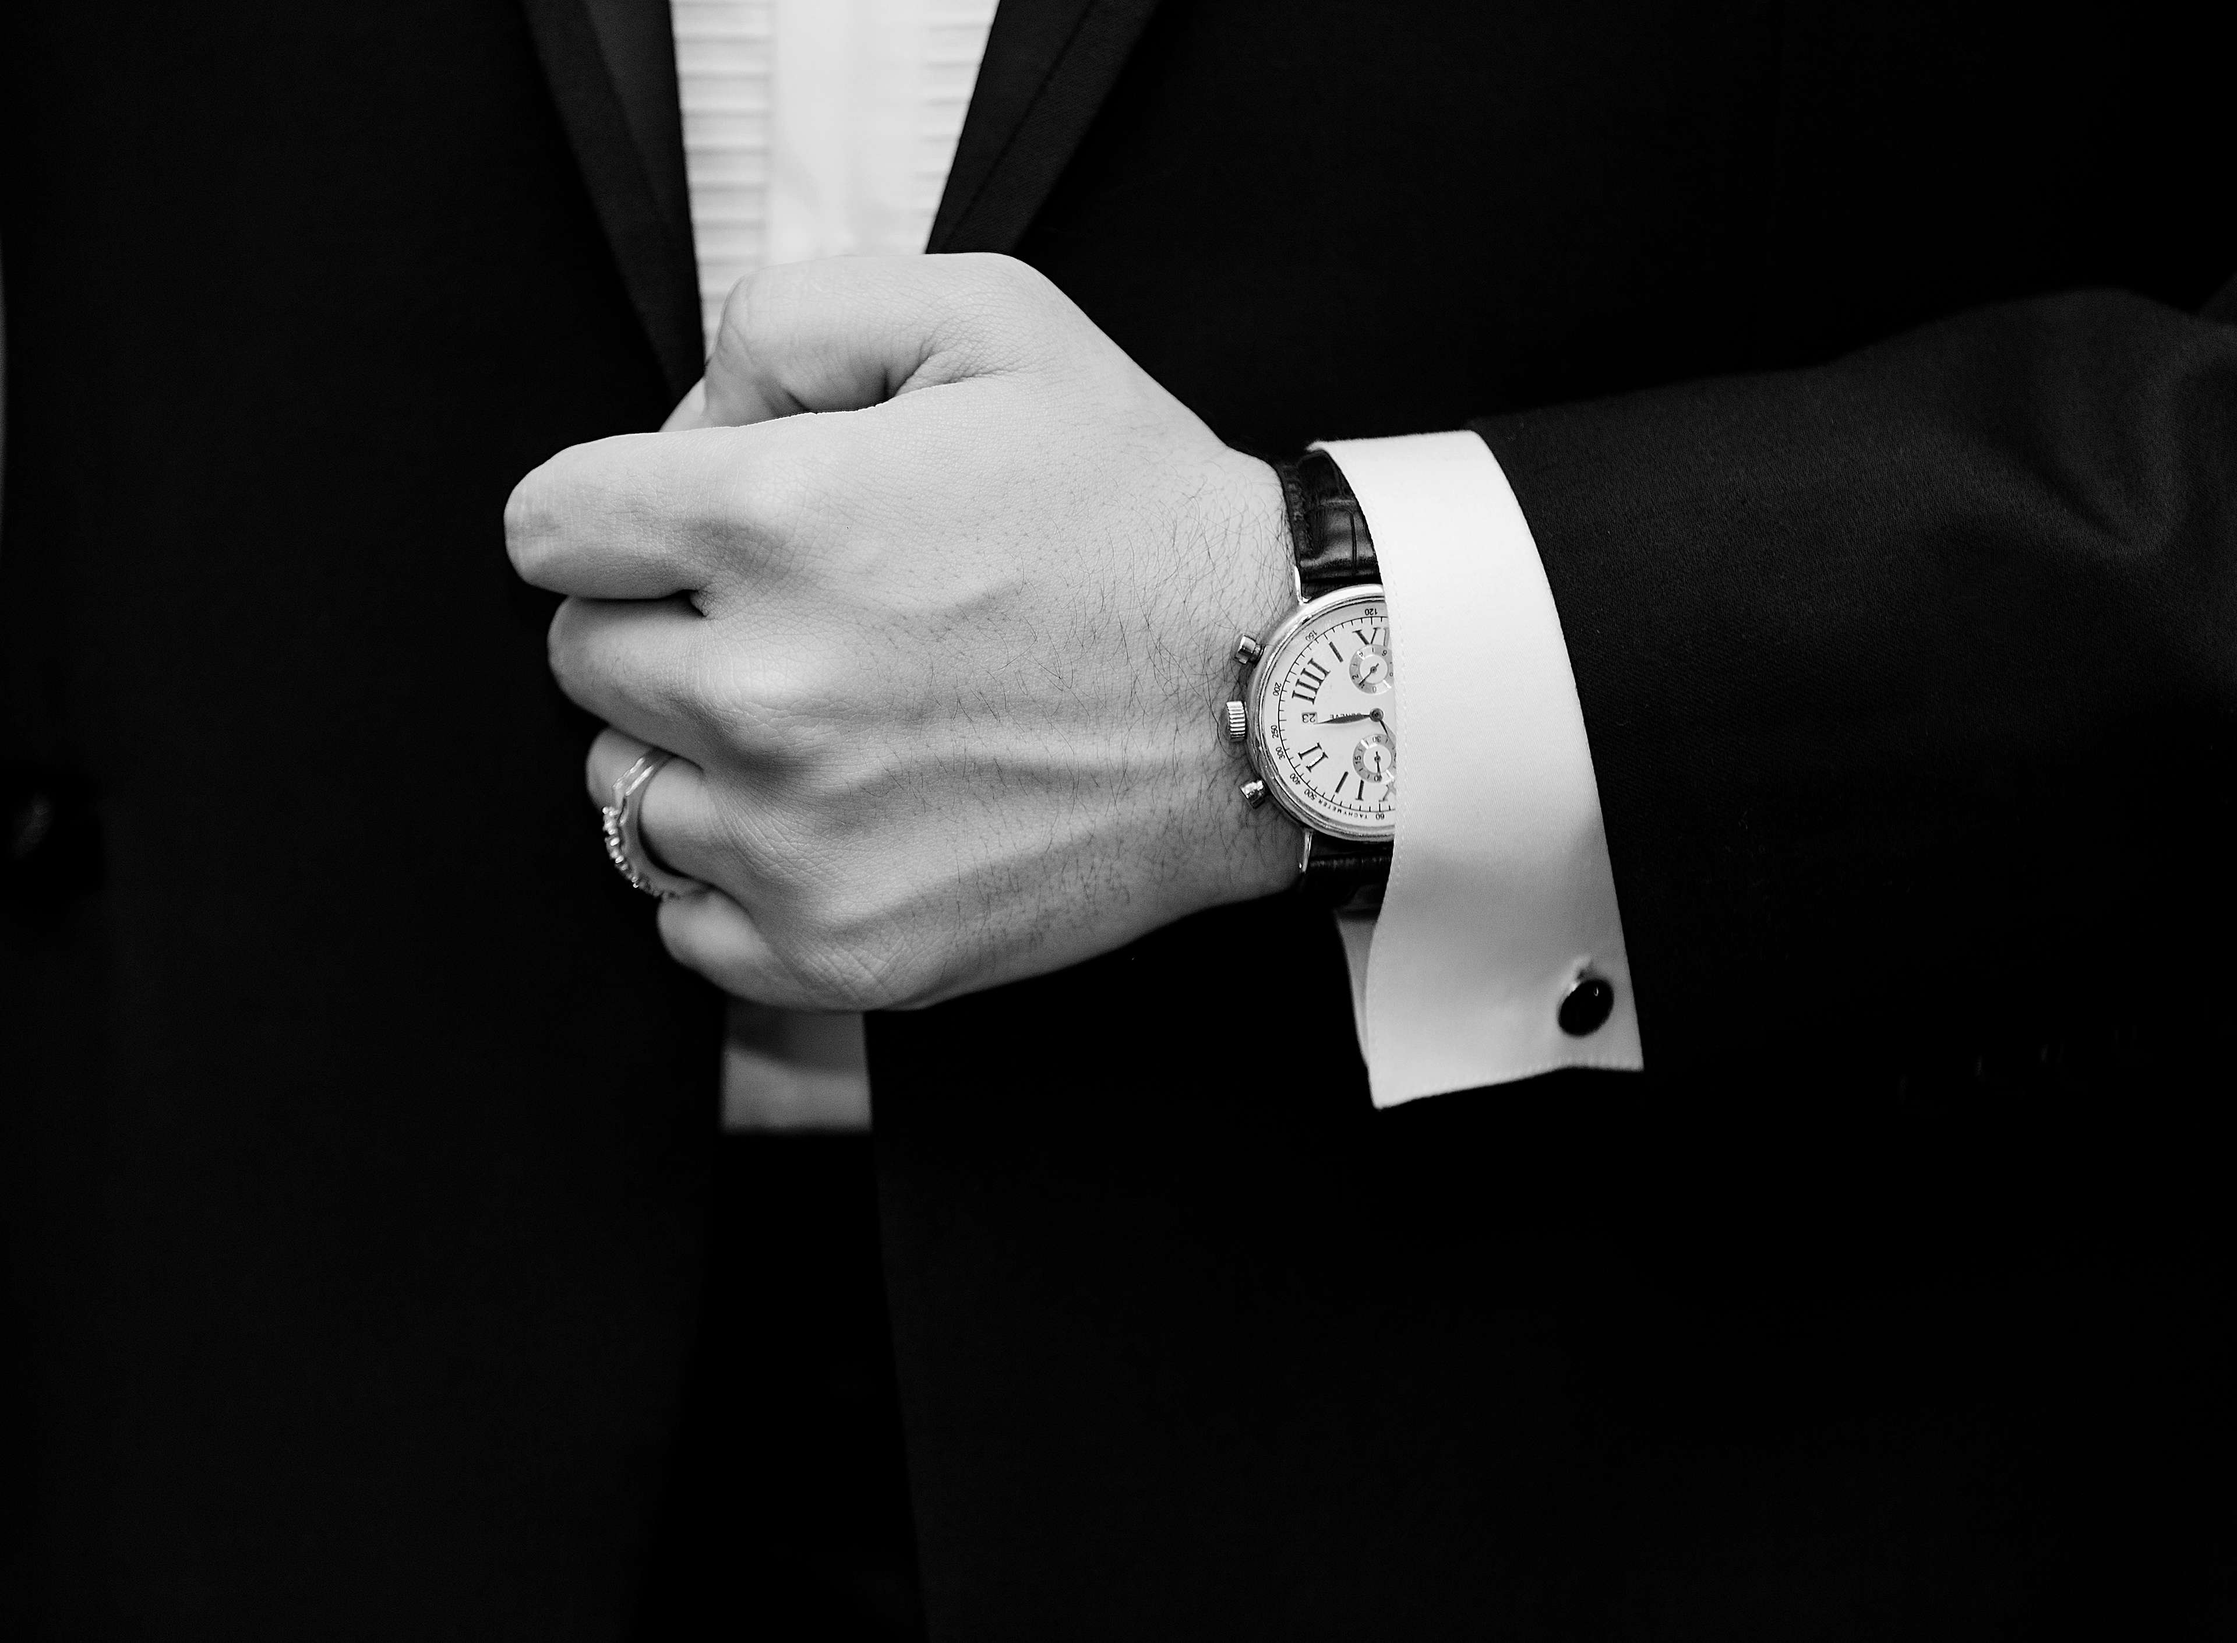
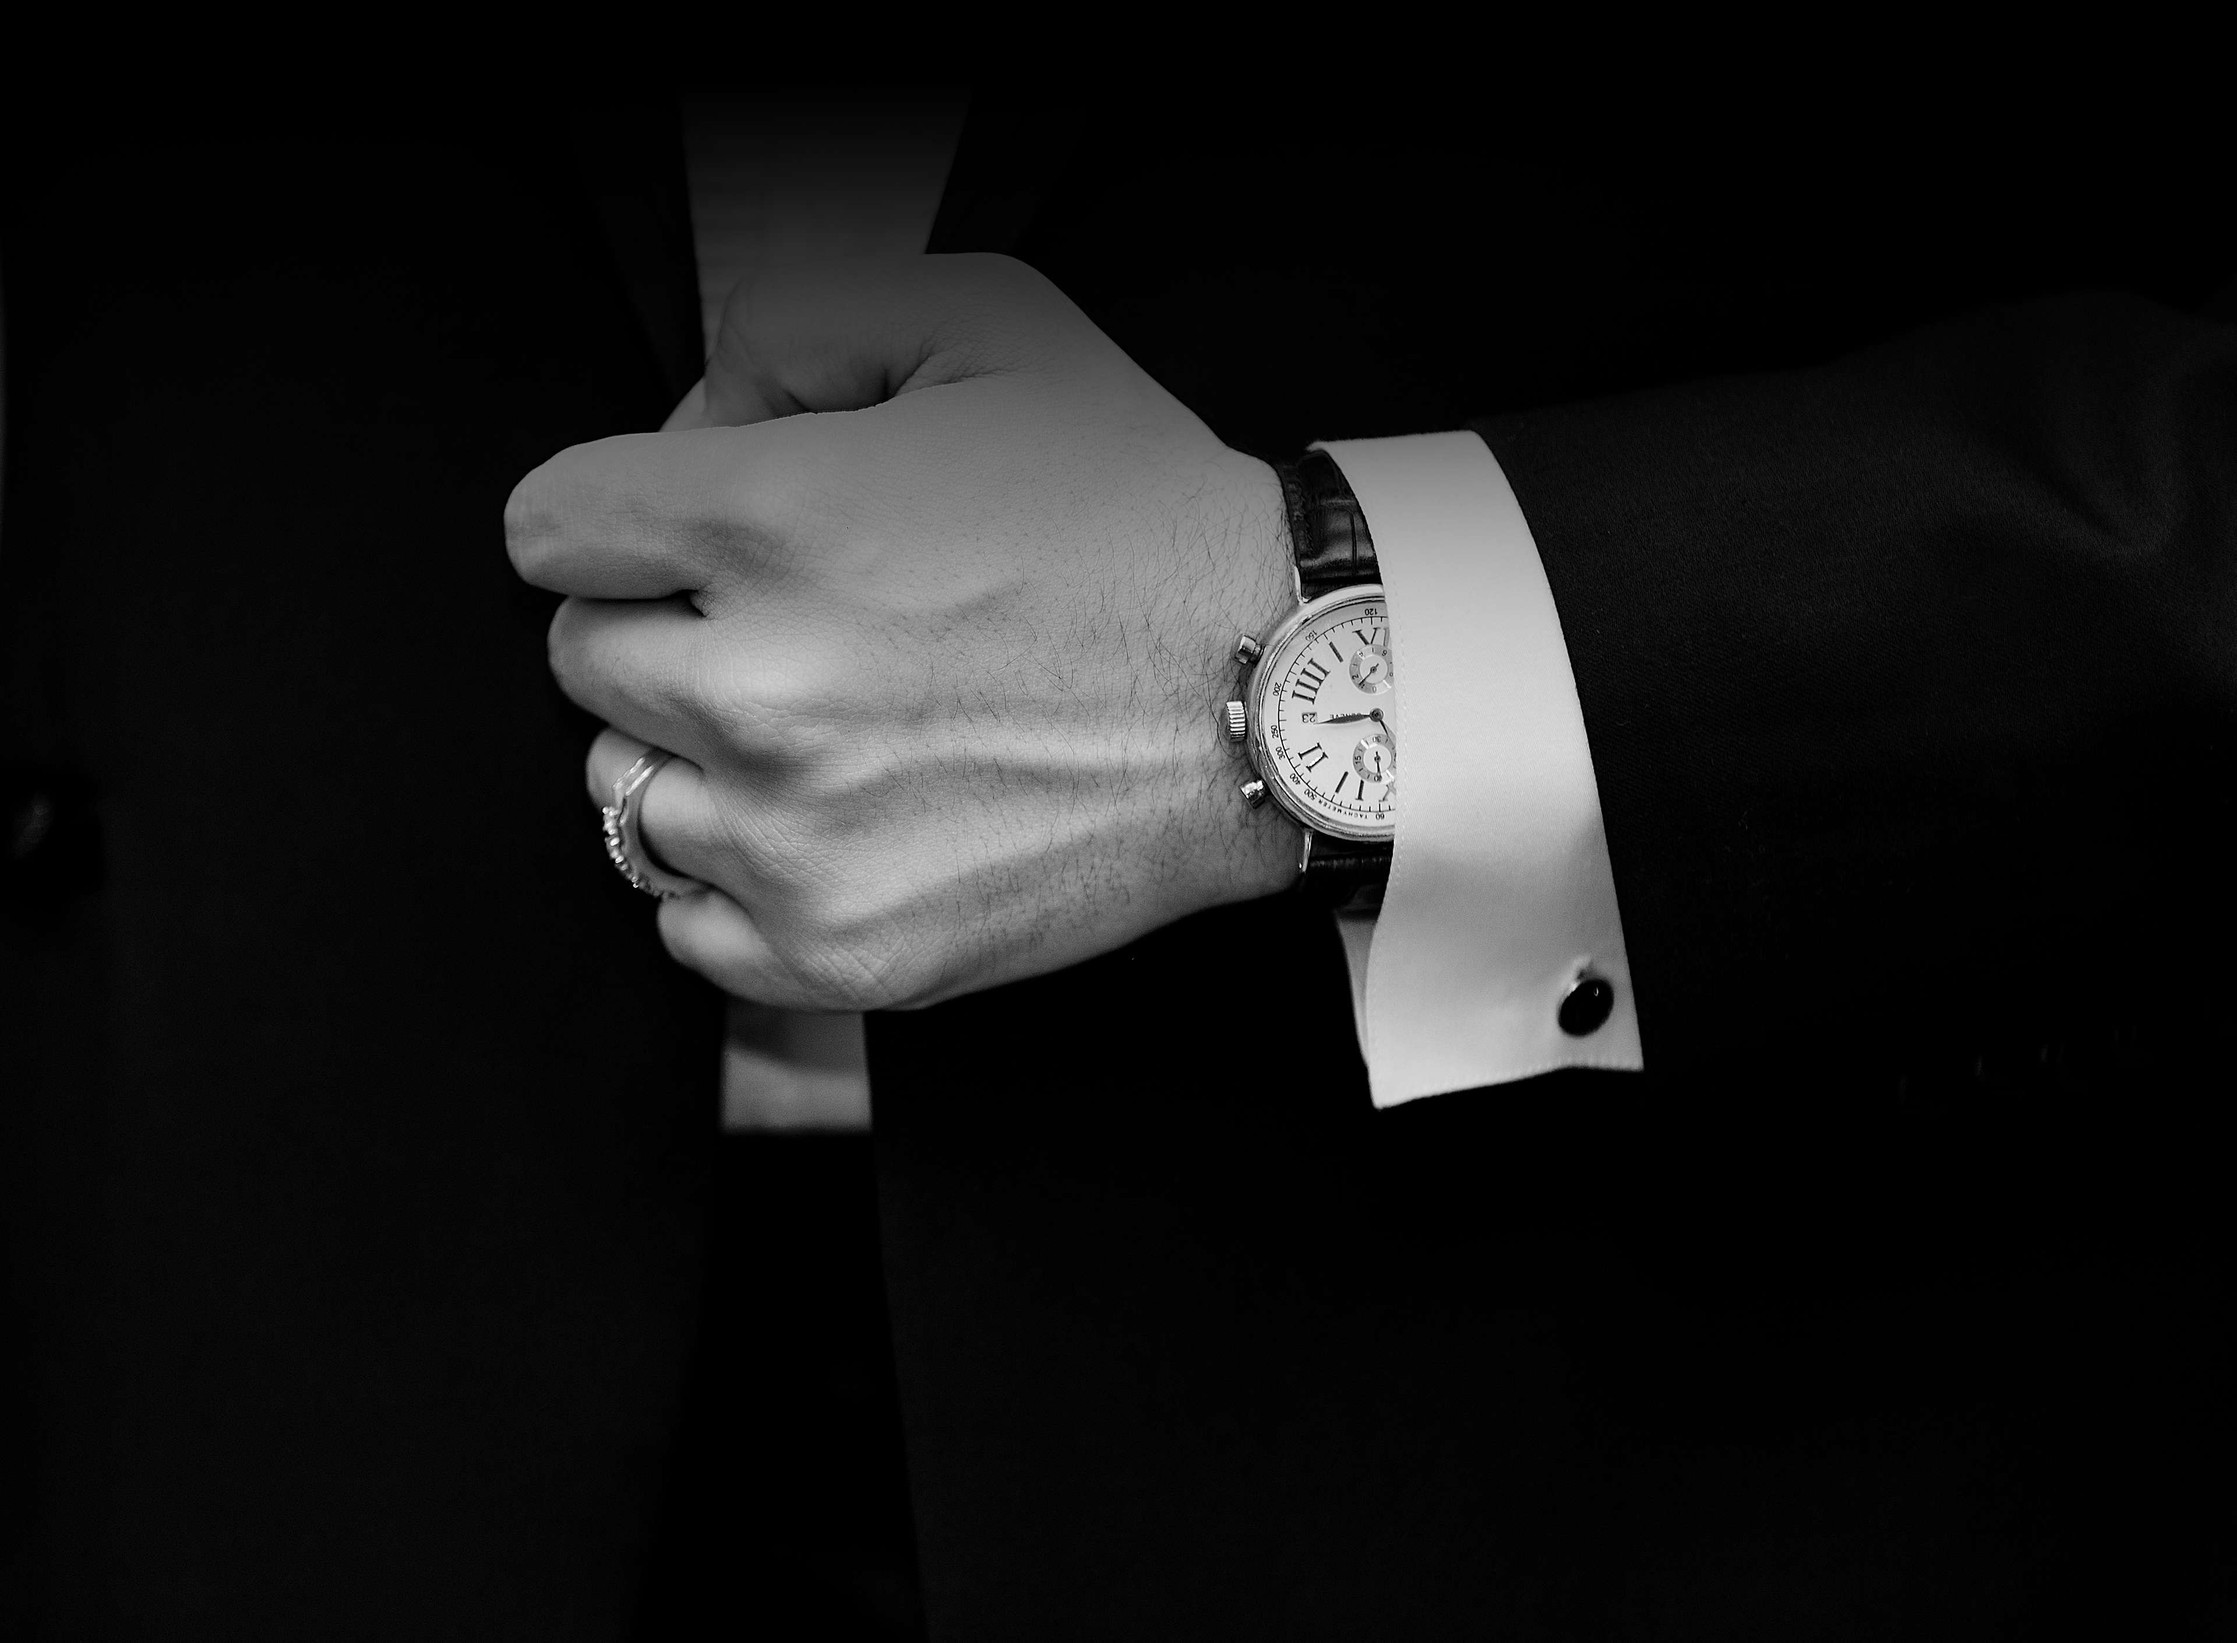
About Section
Finished header. Aurora text animation completed. About me section in
progress.

Changed region(s): [[0.2188, 0.0, 0.7188, 0.4057]]

diff --git a/index.html b/index.html
@@ -12,10 +12,10 @@
     <link rel="stylesheet" href="https://maxcdn.bootstrapcdn.com/bootstrap/3.3.7/css/bootstrap.min.css" integrity="sha384-BVYiiSIFeK1dGmJRAkycuHAHRg32OmUcww7on3RYdg4Va+PmSTsz/K68vbdEjh4u" crossorigin="anonymous" />
     <link rel="stylesheet" href="css/normalize.css" />
     <link rel="stylesheet" href="css/main.css" />
-    <!--[if lt IE 9]>
-      <script src="https://oss.maxcdn.com/html5shiv/3.7.3/html5shiv.min.js"></script>
-      <script src="https://oss.maxcdn.com/respond/1.4.2/respond.min.js"></script>
-    <![endif]-->
+    <!--[if lt IE 9] -->
+    <script src="https://oss.maxcdn.com/html5shiv/3.7.3/html5shiv.min.js"></script>
+    <script src="https://oss.maxcdn.com/respond/1.4.2/respond.min.js"></script>
+    <!-- [endif] -->
 </head>
 
 <body>
@@ -28,16 +28,15 @@
                 <button type="button" class="navbar-toggle collapsed" data-toggle="collapse" data-target="#mobile-menu">
           <span class="glyphicon glyphicon-menu-hamburger"></span>
           </button>
-                <a class="navbar-brand" href="index.html">AURORA</a>
+                <a href="index.html" class="navbar-brand aurora">AURORA</a>
             </div>
             <!-- NAV LINKS -->
             <div class="collapse navbar-collapse" id="mobile-menu">
                 <ul class="nav navbar-nav navbar-right">
-                    <li><a href="">Home</a></li>
-                    <li><a href="">About</a></li>
-                    <li><a href="">Skills</a></li>
-                    <li><a href="">Resume</a></li>
-                    <li><a href="">Contact</a></li>
+                    <li><a href="#home">Home</a></li>
+                    <li><a href="#about">About</a></li>
+                    <li><a href="#skills">Skills</a></li>
+                    <li><a href="#contact">Contact</a></li>
                 </ul>
             </div>
         </div>
@@ -47,29 +46,40 @@
     <header id="home">
         <div class="header-container">
             <div class="header-cell">
-              <h1>I'M JOSHUA NELSON</h1>
+              <h1>I AM, JOSHUA NELSON</h1>
               <hr />
               <h3>WEB DEVELOPER</h3>
             </div>
         </div>
     </header>
 
+    <!-- ABOUT SECTION -->
     <section id="about">
-
+      <div class="container lg-padding">
+        <div class="row">
+          <div class="col-md-4 black">
+            <img src="images/me.jpg" alt="Joshua" />
+          </div>
+          <div class="col-md-8 lg-padding">
+            <h2 class="page-header">About Me</h2>
+            <p>I'm a United States Air Force veteran and recent graduate from Liberty University where I obtained a Bachelor of Science in Appled Web Technologies. I know what it takes to accomplished the tasks set before me; dedication, passion, and long hours. I love the feeling of being able to create something using lines of code and Photoshop.</p>
+            <p></p>
+          </div>
+        </div>
+      </div>
     </section>
 
+    <!-- SKILLS SECTION -->
     <section id="skills">
 
     </section>
 
-    <section id="resume">
-
-    </section>
-
+    <!-- CONTACT SECTION -->
     <section id="contact">
 
     </section>
 
+    <!-- FOOTER -->
     <footer>
 
     </footer>
@@ -78,6 +88,13 @@
     <script src="https://ajax.googleapis.com/ajax/libs/jquery/3.1.1/jquery.min.js"></script>
     <script src="https://maxcdn.bootstrapcdn.com/bootstrap/3.3.7/js/bootstrap.min.js" integrity="sha384-Tc5IQib027qvyjSMfHjOMaLkfuWVxZxUPnCJA7l2mCWNIpG9mGCD8wGNIcPD7Txa" crossorigin="anonymous"></script>
 
+      <!-- LETTERING.JS USED FOR AURORA TEXT ANIMATION -->
+    <script src="js/jquery.lettering-0.6.1.min.js"></script>
+    <script>
+        $(document).ready(function() {
+            $(".aurora").lettering();
+        });
+    </script>
 </body>
 
 </html>

diff --git a/css/main.css b/css/main.css
@@ -1,9 +1,16 @@
 @import url('https://fonts.googleapis.com/css?family=Montserrat|Ubuntu');
 
+
+
 /* SITE/MULTIPLE ELEMENTS */
 body {
   padding-top: 50px;
+}
+
+p {
   font-family: 'Ubuntu', sans-serif;
+  font-size: 1.3em;
+  line-height: 1.8em;
 }
 
 nav, h1, h2, h3, h4, h5, h6 {
@@ -36,7 +43,7 @@ nav {
 /* HEADER */
 header {
   height: 100vh;
-  background: #000 url("../images/header-bg2.jpg") no-repeat center;
+  background: #000 url("../images/header-bg.jpg") no-repeat center;
   background-size: cover;
   color: #fff;
 }
@@ -63,3 +70,126 @@ header hr {
 }
 
 /* ABOUT SECTION */
+#about img {
+  display: block;
+  margin: auto;
+}
+
+/* HELPER CLASSES */
+.lg-padding {
+  padding: 50px;
+}
+
+.md-padding {
+  padding: 30px;
+}
+
+.sm-padding {
+  padding: 15px;
+}
+
+.blue {
+  background-color: blue;
+}
+
+.black {
+  background-color: black;
+}
+
+/* AURORA TEXT ANIMATION */
+/* USES LETTERING.JS FOR LETTER SEPARATION */
+
+.aurora {
+    color: white;
+    letter-spacing: 2.4px;
+}
+
+.aurora:hover span:nth-of-type(1) {
+    animation: fun-1 5s 0.02s 1 alternate;
+}
+
+.aurora:hover span:nth-of-type(2) {
+    animation: fun-2 5s 0.04s 1 alternate;
+}
+
+.aurora:hover span:nth-of-type(3) {
+    animation: fun-3 5s 0.06s 1 alternate;
+}
+
+.aurora:hover span:nth-of-type(4) {
+    animation: fun-4 5s 0.08s 1 alternate;
+}
+
+.aurora:hover span:nth-of-type(5) {
+    animation: fun-5 5s 0.1s 1 alternate;
+}
+
+.aurora:hover span:nth-of-type(6) {
+    animation: fun-6 5s 0.2s 1 alternate;
+}
+
+@-webkit-keyframes fun-1 {
+    from {
+        text-shadow: 0 0 3px #cc6600;
+        color: transparent;
+    }
+    to {
+        text-shadow: 0;
+        color: #white;
+    }
+}
+
+@-webkit-keyframes fun-2 {
+    from {
+        text-shadow: 0 0 5px #ff8000;
+        color: transparent;
+    }
+    to {
+        text-shadow: 0;
+        color: white;
+    }
+}
+
+@-webkit-keyframes fun-3 {
+    from {
+        text-shadow: 0 0 3px #3333ff;
+        color: transparent;
+    }
+    to {
+        text-shadow: 0;
+        color: white;
+    }
+}
+
+@-webkit-keyframes fun-4 {
+    from {
+        text-shadow: 0 0 6px #884dff;
+        color: transparent;
+    }
+    to {
+        text-shadow: 0;
+        color: white;
+    }
+}
+
+@-webkit-keyframes fun-5 {
+    from {
+        text-shadow: 0 0 5px #70db70;
+        color: transparent;
+    }
+    to {
+        text-shadow: 0;
+        color: white;
+    }
+}
+
+@-webkit-keyframes fun-6 {
+    from {
+        text-shadow: 0 0 6px #66ff33;
+        color: transparent;
+    }
+    to {
+        text-shadow: 0;
+        color: white;
+    }
+}

diff --git a/js/jquery.lettering-0.6.1.min.js b/js/jquery.lettering-0.6.1.min.js
@@ -1,0 +1,2 @@
+/* Lettering.JS 0.6.1 by Dave Rupert  - http://daverupert.com */
+(function($){function injector(t,splitter,klass,after){var a=t.text().split(splitter),inject='';if(a.length){$(a).each(function(i,item){inject+='<span class="'+klass+(i+1)+'">'+item+'</span>'+after});t.empty().append(inject)}}var methods={init:function(){return this.each(function(){injector($(this),'','char','')})},words:function(){return this.each(function(){injector($(this),' ','word',' ')})},lines:function(){return this.each(function(){var r="eefec303079ad17405c889e092e105b0";injector($(this).children("br").replaceWith(r).end(),r,'line','')})}};$.fn.lettering=function(method){if(method&&methods[method]){return methods[method].apply(this,[].slice.call(arguments,1))}else if(method==='letters'||!method){return methods.init.apply(this,[].slice.call(arguments,0))}$.error('Method '+method+' does not exist on jQuery.lettering');return this}})(jQuery);
